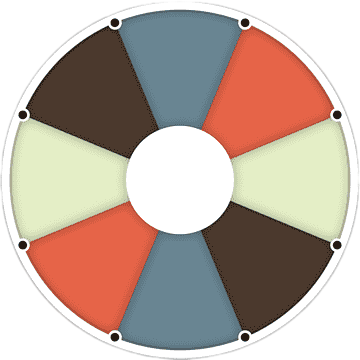
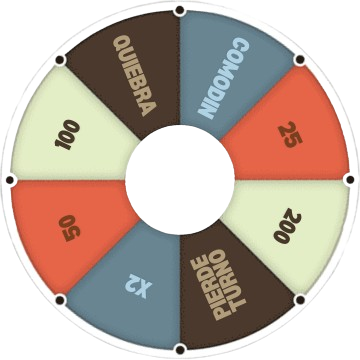
Ruleta modificada contiene numeros y muestra el premio

diff --git a/ruleta_app/src/Ruleta.jsx b/ruleta_app/src/Ruleta.jsx
@@ -5,7 +5,8 @@ function Ruleta() {
     
     const[ancho,setAncho]=useState(1);
     const[rotacion,setRotaton]=useState(0);
-
+    const[premio,setPremio]=useState('Premio');
+    
     const barraRef=useRef(null)
     const lanzar=()=>{
         barraRef.current.classList.toggle('parate')
@@ -19,6 +20,45 @@ function Ruleta() {
         setRotaton(rotacion + ancho + nuevaRotacion)
     }
 
+    const final=()=>{
+        barraRef.current.classList.toggle('parate')
+        const grados=(rotacion % 360 + 360) % 360;
+
+        if(grados>=0 && grados <=44)
+        {
+            setPremio('Quiebra')
+        }
+        else if (grados>=45 && grados <=90)
+        {
+            setPremio('100 puntos')
+        }
+        else if (grados>=91 && grados <=135)
+        {
+            setPremio('50 puntos')
+        }
+        else if (grados>=136 && grados <=179)
+        {
+            setPremio('x2')
+        }
+        else if (grados>=180 && grados <=224)
+        {
+            setPremio('Pierde Turno')
+        }
+        else if (grados>=225 && grados <=269)
+        {
+            setPremio('200 puntos')
+        }
+        else if (grados>=270 && grados <=314)
+        {
+            setPremio('25 puntos')
+        }
+        else if (grados>=315 && grados <=359)
+        {
+            setPremio('Comodin')
+        }
+        
+    }
+
     return (
     <>
         <div className="monedas"></div>
@@ -29,9 +69,9 @@ function Ruleta() {
                 backgroundImage:`url('./assets/ruleta.png')`,
                 transform:`rotate(${rotacion}deg)`,
                 transition:"transform 6s cubic-bezier(0.2,0.8,0.7,0.99)"
-            }}>
+            }} onTransitionEnd={final}>            
             </div>
-            <div className="premio"></div>
+            <div className="premio">{premio}</div>
             <div className="barra1">
                 <div ref={barraRef} className='mi_barra'></div>
             </div>
